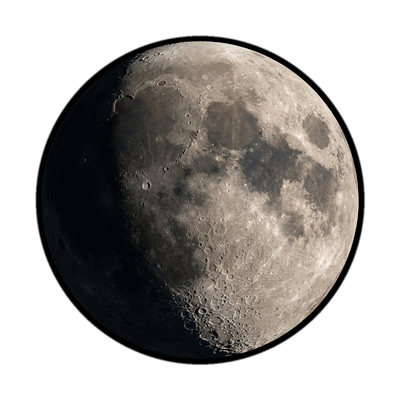
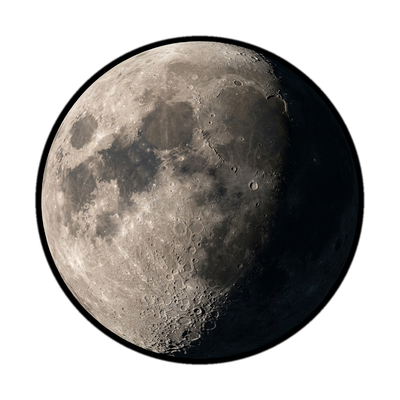
feat: move half-moon to Experience section with left-facing crescent and off-screen right positioning

diff --git a/index.html b/index.html
@@ -8,7 +8,7 @@
   <link rel="preconnect" href="https://fonts.googleapis.com">
   <link rel="preconnect" href="https://fonts.gstatic.com" crossorigin>
   <link href="https://fonts.googleapis.com/css2?family=Space+Grotesk:wght@300;400;500;600;700&family=Inter:wght@300;400;500;600&family=Space+Mono:ital,wght@0,400;0,700&display=swap" rel="stylesheet">
-  <link rel="stylesheet" href="style.css?v=3.5">
+  <link rel="stylesheet" href="style.css?v=4.0">
 </head>
 <body>
 
@@ -50,15 +50,6 @@
 
   <!-- HERO -->
   <section id="hero" class="hero">
-    <!-- Distant Half-Lit Moon -->
-    <div class="distant-moon" aria-hidden="true" data-parallax="0.02">
-      <picture>
-        <source srcset="assets/distant_moon.webp" type="image/webp">
-        <img src="assets/distant_moon.png" alt="" class="moon-img" draggable="false" loading="eager">
-      </picture>
-      <div class="moon-glow"></div>
-    </div>
-
     <div class="hero-content anim-fadein" data-parallax="0.04">
       <p class="hero-greeting">Hello, I'm</p>
       <h1 class="hero-name">Arun Karthick <span class="accent">P</span></h1>
@@ -177,63 +168,74 @@
   </section>
 
   <!-- EXPERIENCE -->
-  <section id="experience" class="section reveal">
-    <div class="sec-label">03 · Experience</div>
-    <h2 class="sec-title">Work &amp; Leadership</h2>
-    <p class="sec-sub">Hands-on industry internship and university technical leadership.</p>
+  <section id="experience" class="section experience-section reveal">
+    <!-- Atmospheric Experience Moon entering from right edge -->
+    <div class="experience-moon" aria-hidden="true" data-parallax="0.03">
+      <picture>
+        <source srcset="assets/distant_moon.webp" type="image/webp">
+        <img src="assets/distant_moon.png" alt="" class="moon-img" draggable="false" loading="lazy">
+      </picture>
+      <div class="moon-glow"></div>
+    </div>
 
-    <div class="exp-grid">
-      <!-- Right Angle Solutions -->
-      <div class="exp-card glass">
-        <div class="exp-header">
-          <div class="exp-meta">
-            <span class="exp-tag tag-intern">Internship</span>
-            <span class="exp-date">Jun 2026 – Jul 2026</span>
-          </div>
-          <h3 class="exp-role">Data &amp; Analytics Intern</h3>
-          <h4 class="exp-company">Right Angle Solutions <span class="exp-loc">· Remote / Hybrid</span></h4>
-        </div>
-        <p class="exp-overview">
-          Managed financial and operational business datasets for the Finance &amp; Accounts division, conducting data validation and structured analysis to support reliable reporting and executive decision-making.
-        </p>
-        <ul class="exp-bullets">
-          <li>Managed spreadsheet-based financial and operational records for the Finance &amp; Accounts team, validating data integrity across enterprise accounts.</li>
-          <li>Prepared structured executive reports and consolidated multi-source operational metrics to improve clarity for leadership decision-making.</li>
-          <li>Performed rigorous data validation and exploratory checks on financial datasets to identify discrepancies and maintain high reporting accuracy.</li>
-        </ul>
-        <div class="exp-skills">
-          <span>Advanced Excel</span>
-          <span>Financial Data Validation</span>
-          <span>Business Reporting</span>
-          <span>Operational Analytics</span>
-          <span>Data Quality Assurance</span>
-        </div>
-      </div>
+    <div class="section-content">
+      <div class="sec-label">03 · Experience</div>
+      <h2 class="sec-title">Work &amp; Leadership</h2>
+      <p class="sec-sub">Hands-on industry internship and university technical leadership.</p>
 
-      <!-- Data Forge -->
-      <div class="exp-card glass">
-        <div class="exp-header">
-          <div class="exp-meta">
-            <span class="exp-tag tag-lead">Leadership</span>
-            <span class="exp-date">2024 – Present</span>
+      <div class="exp-grid">
+        <!-- Right Angle Solutions -->
+        <div class="exp-card glass">
+          <div class="exp-header">
+            <div class="exp-meta">
+              <span class="exp-tag tag-intern">Internship</span>
+              <span class="exp-date">Jun 2026 – Jul 2026</span>
+            </div>
+            <h3 class="exp-role">Data &amp; Analytics Intern</h3>
+            <h4 class="exp-company">Right Angle Solutions <span class="exp-loc">· Remote / Hybrid</span></h4>
           </div>
-          <h3 class="exp-role">Technical Manager</h3>
-          <h4 class="exp-company">Data Forge — Data Science Club <span class="exp-loc">· SRMIST Trichy</span></h4>
+          <p class="exp-overview">
+            Managed financial and operational business datasets for the Finance &amp; Accounts division, conducting data validation and structured analysis to support reliable reporting and executive decision-making.
+          </p>
+          <ul class="exp-bullets">
+            <li>Managed spreadsheet-based financial and operational records for the Finance &amp; Accounts team, validating data integrity across enterprise accounts.</li>
+            <li>Prepared structured executive reports and consolidated multi-source operational metrics to improve clarity for leadership decision-making.</li>
+            <li>Performed rigorous data validation and exploratory checks on financial datasets to identify discrepancies and maintain high reporting accuracy.</li>
+          </ul>
+          <div class="exp-skills">
+            <span>Advanced Excel</span>
+            <span>Financial Data Validation</span>
+            <span>Business Reporting</span>
+            <span>Operational Analytics</span>
+            <span>Data Quality Assurance</span>
+          </div>
         </div>
-        <p class="exp-overview">
-          Direct technical programs, developer workshops, and project incubation for the premier data science and analytics student organization at SRM Institute of Science &amp; Technology.
-        </p>
-        <ul class="exp-bullets">
-          <li>Spearhead technical curriculum, hands-on workshops, and developer mentoring in Python, SQL, and data analytics pipelines for club members.</li>
-          <li>Lead end-to-end event management for data science competitions, hackathons, and competitive analytics challenges across the university.</li>
-          <li>Architected and deployed the club's official web portal (DataforgewebV1), standardizing member onboarding and event showcases.</li>
-        </ul>
-        <div class="exp-skills">
-          <span>Technical Leadership</span>
-          <span>Data Science Mentoring</span>
-          <span>Workshop Facilitation</span>
-          <span>Web Architecture</span>
-          <span>Event Management</span>
+
+        <!-- Data Forge -->
+        <div class="exp-card glass">
+          <div class="exp-header">
+            <div class="exp-meta">
+              <span class="exp-tag tag-lead">Leadership</span>
+              <span class="exp-date">2024 – Present</span>
+            </div>
+            <h3 class="exp-role">Technical Manager</h3>
+            <h4 class="exp-company">Data Forge — Data Science Club <span class="exp-loc">· SRMIST Trichy</span></h4>
+          </div>
+          <p class="exp-overview">
+            Direct technical programs, developer workshops, and project incubation for the premier data science and analytics student organization at SRM Institute of Science &amp; Technology.
+          </p>
+          <ul class="exp-bullets">
+            <li>Spearhead technical curriculum, hands-on workshops, and developer mentoring in Python, SQL, and data analytics pipelines for club members.</li>
+            <li>Lead end-to-end event management for data science competitions, hackathons, and competitive analytics challenges across the university.</li>
+            <li>Architected and deployed the club's official web portal (DataforgewebV1), standardizing member onboarding and event showcases.</li>
+          </ul>
+          <div class="exp-skills">
+            <span>Technical Leadership</span>
+            <span>Data Science Mentoring</span>
+            <span>Workshop Facilitation</span>
+            <span>Web Architecture</span>
+            <span>Event Management</span>
+          </div>
         </div>
       </div>
     </div>
@@ -545,6 +547,6 @@
     </div>
   </footer>
 
-  <script src="script.js?v=3.5"></script>
+  <script src="script.js?v=4.0"></script>
 </body>
 </html>

diff --git a/style.css b/style.css
@@ -246,39 +246,6 @@ body::before {
 }
 @keyframes bob { 0%,100%{transform:translateX(-50%) translateY(0); opacity:.4} 50%{transform:translateX(-50%) translateY(6px); opacity:.9} }
 
-/* ── Distant Moon ── */
-.distant-moon {
-  position: absolute;
-  top: 5%;
-  right: -55px;
-  width: 250px;
-  height: 250px;
-  pointer-events: none;
-  z-index: 0;
-  opacity: 0.38;
-}
-
-.moon-img {
-  width: 100%;
-  height: auto;
-  display: block;
-  user-select: none;
-  filter: drop-shadow(0 0 35px rgba(226, 232, 240, 0.12));
-}
-
-.moon-glow {
-  position: absolute;
-  top: 50%;
-  left: 50%;
-  transform: translate(-50%, -50%);
-  width: 280px;
-  height: 280px;
-  border-radius: 50%;
-  background: radial-gradient(circle, rgba(226, 232, 240, 0.08) 0%, transparent 65%);
-  filter: blur(40px);
-  pointer-events: none;
-}
-
 /* Fade-in hero */
 .anim-fadein       { animation:fadein .9s var(--ease) .15s both; }
 .anim-fadein-delay { animation:fadein .9s var(--ease) .45s both; }
@@ -469,6 +436,65 @@ body::before {
 }
 
 /* ── EXPERIENCE ── */
+.experience-section {
+  position: relative;
+  overflow: hidden;
+}
+
+.experience-section > .section-content {
+  position: relative;
+  z-index: 1;
+}
+
+.experience-moon {
+  position: absolute;
+  width: clamp(360px, 32vw, 620px);
+  height: clamp(360px, 32vw, 620px);
+  right: clamp(-360px, -16vw, -150px);
+  top: 18%;
+  opacity: 0.16;
+  pointer-events: none;
+  z-index: 0;
+  transition: opacity 0.4s ease;
+}
+
+.experience-moon .moon-img {
+  width: 100%;
+  height: 100%;
+  object-fit: contain;
+  user-select: none;
+  filter: drop-shadow(0 0 50px rgba(226, 232, 240, 0.15));
+}
+
+.experience-moon .moon-glow {
+  position: absolute;
+  top: 50%;
+  left: 32%;
+  transform: translate(-50%, -50%);
+  width: 95%;
+  height: 95%;
+  border-radius: 50%;
+  background: radial-gradient(circle, rgba(56, 189, 248, 0.08) 0%, rgba(226, 232, 240, 0.04) 45%, transparent 70%);
+  filter: blur(50px);
+  pointer-events: none;
+}
+
+@media (max-width: 992px) {
+  .experience-moon {
+    width: clamp(280px, 30vw, 420px);
+    height: clamp(280px, 30vw, 420px);
+    right: -200px;
+    top: 22%;
+    opacity: 0.12;
+  }
+}
+
+@media (max-width: 680px) {
+  .experience-moon {
+    display: none;
+  }
+}
+
 .exp-grid {
   display: grid;
   grid-template-columns: repeat(auto-fit, minmax(320px, 1fr));
